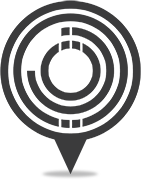
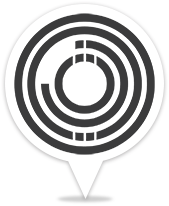
new map marker

diff --git a/footer.php b/footer.php
@@ -78,8 +78,8 @@ jQuery(document).ready(function(){
 
                   var position     = [$(this).attr("data-lat"),$(this).attr("data-log")];
                   var marker_url   = "<?php echo IMAGES?>/marker.png";
-                  var marker_w     = 144;
-                  var marker_h     = 184;
+                  var marker_w     = 169;
+                  var marker_h     = 206;
                   var marker_title = "Mapped WordPress Theme Demo";
                   mp_initialize_map(position, marker_url,marker_w,marker_h,marker_title);
             });
@@ -88,8 +88,8 @@ jQuery(document).ready(function(){
                
             var position     = [25.28100,51.53991];
             var marker_url   = "<?php echo IMAGES?>/marker.png";
-            var marker_w     = 144;
-            var marker_h     = 184;
+            var marker_w     = 169;
+            var marker_h     = 206;
             var marker_title = "Mapped WordPress Theme Demo";
 
             window.onload = mp_initialize_map(position, marker_url,marker_w,marker_h,marker_title);
